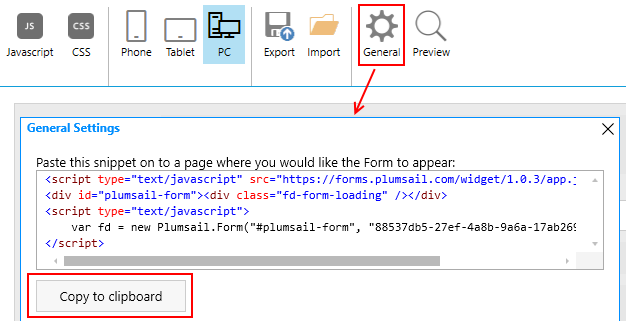
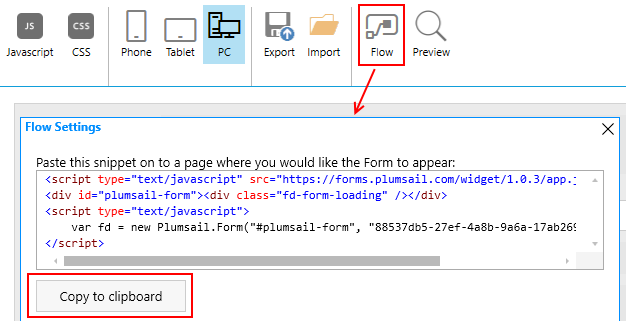
Flow Settings in Getting Started

Changed region(s): [[0.5767, 0.0312, 0.6374, 0.1869], [0.0304, 0.3738, 0.1821, 0.4361]]

diff --git a/source/design.rst b/source/design.rst
@@ -61,12 +61,12 @@ You are always be able to open, edit or delete your saved forms in the upper rig
 
 Publish the form
 --------------------------------------------------
-Once you save the form, you'll see two additional buttons on the Ribbon - *General* and *Preview*:
+Once you save the form, you'll see two additional buttons on the Ribbon - *Flow* and *Preview*:
 
 |pic6|
 
 .. |pic6| image:: ./images/start/general-preview.png
-   :alt: General and Preview
+   :alt: Flow and Preview
 
 Preview allows you to see how your form will look in the browser. It will look different from its presentation in the designer, 
 so make sure that you like the final result before publishing:
@@ -79,12 +79,12 @@ so make sure that you like the final result before publishing:
 When you are satisfied with how your form looks on all the layouts and screen sizes (you can just resize browser's window to see how the form scales),
 you can finally publish the form. For that, you need to copy the widget with FormID to the HTML code of the page where you want to publish it.
 
-The widget can be found in General Settings in the designer where you can copy it to clipboard:
+The widget can be found in Flow Settings in the designer where you can copy it to clipboard:
 
 |pic8|
 
 .. |pic8| image:: ./images/start/general-widget.png
-   :alt: Form Widget in General Settings
+   :alt: Form Widget in Flow Settings
 
 You can also copy form's widget from Plumsail Account Forms section in |Forms subsection| where all your forms are stored. 
 

diff --git a/source/microsoft-flow.rst b/source/microsoft-flow.rst
@@ -64,7 +64,7 @@ If this is your first Flow, at this point you'll need to **Sign in to** |Plumsai
 
 Now, you'll need to add the ID of the Form you want to track. You can enter ID of the form you already created or create and save a new form in the designer.
 
-Form ID can be found and copied in **General Settings** in the Designer.
+Form ID can be found and copied in **Flow Settings** in the Designer.
 
 .. image:: /images/flow/11_FormIDNew.png
    :alt: Form ID
@@ -79,7 +79,7 @@ After adding the trigger, search for *JSON* and add *Data Operations - Parse JSO
 |
 
 Here you will need to open the designer and the form that you want to track with the Flow. Save it and after saving, 
-open **General Settings** and copy the *Form Schema*:
+open **Flow Settings Settings** and copy the *Form Schema*:
 
 .. image:: /images/flow/13_FormSchema.png
    :alt: Form Schema
